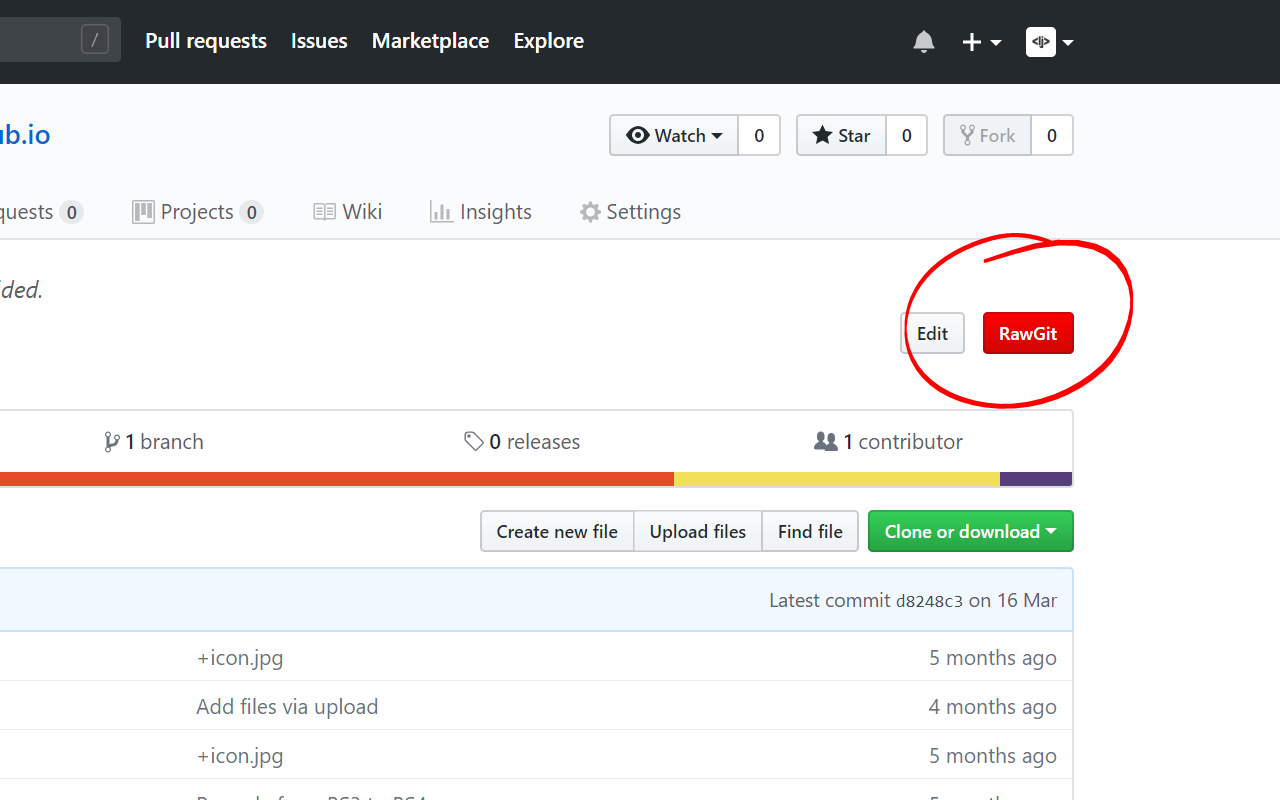
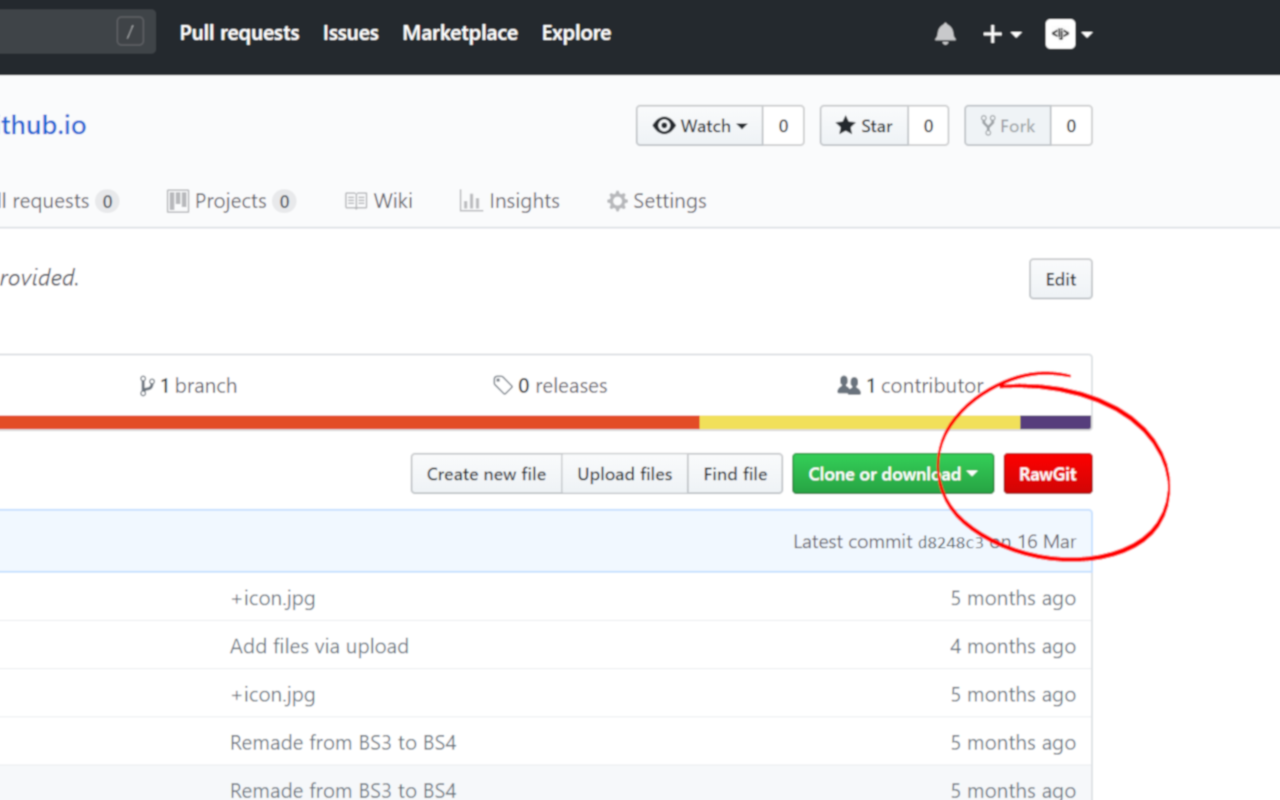
Button moved to file-navigation panel, so it is shown also in another repos, not just in your personal

diff --git a/content.js b/content.js
@@ -1,7 +1,10 @@
-const button = document.createElement("button");
+let button = document.createElement("a");
 button.innerHTML = "RawGit";
-button.className = "btn btn-sm float-right";
+button.className = "btn btn-sm new-pull-request-btn";
 button.id = "button";
+
+let div = document.querySelector(".file-navigation.in-mid-page.d-flex.flex-items-start");
+div.appendChild(button);
 
 button.addEventListener("click",function(){
     let oldurl = window.location.href;
@@ -9,12 +12,3 @@ button.addEventListener("click",function(){
     var win = window.open(newurl, '_blank');
     win.focus();
 });
-
-const child = document.querySelector(".edit-link");
-
-const div = document.createElement("div");
-div.className = "edit-link";
-div.appendChild(button);
-
-child.before(div);
-

diff --git a/styles.css b/styles.css
@@ -1,7 +1,7 @@
 #button {
     color: white;
     background-image: linear-gradient(-180deg, rgb(255, 0, 0) 0%, rgb(212, 5, 5) 90%);
-    margin-left: 1em;
+    margin-left: 6px;
 }
 #button:hover {
     border-color: rgba(27,31,35,0.5);
